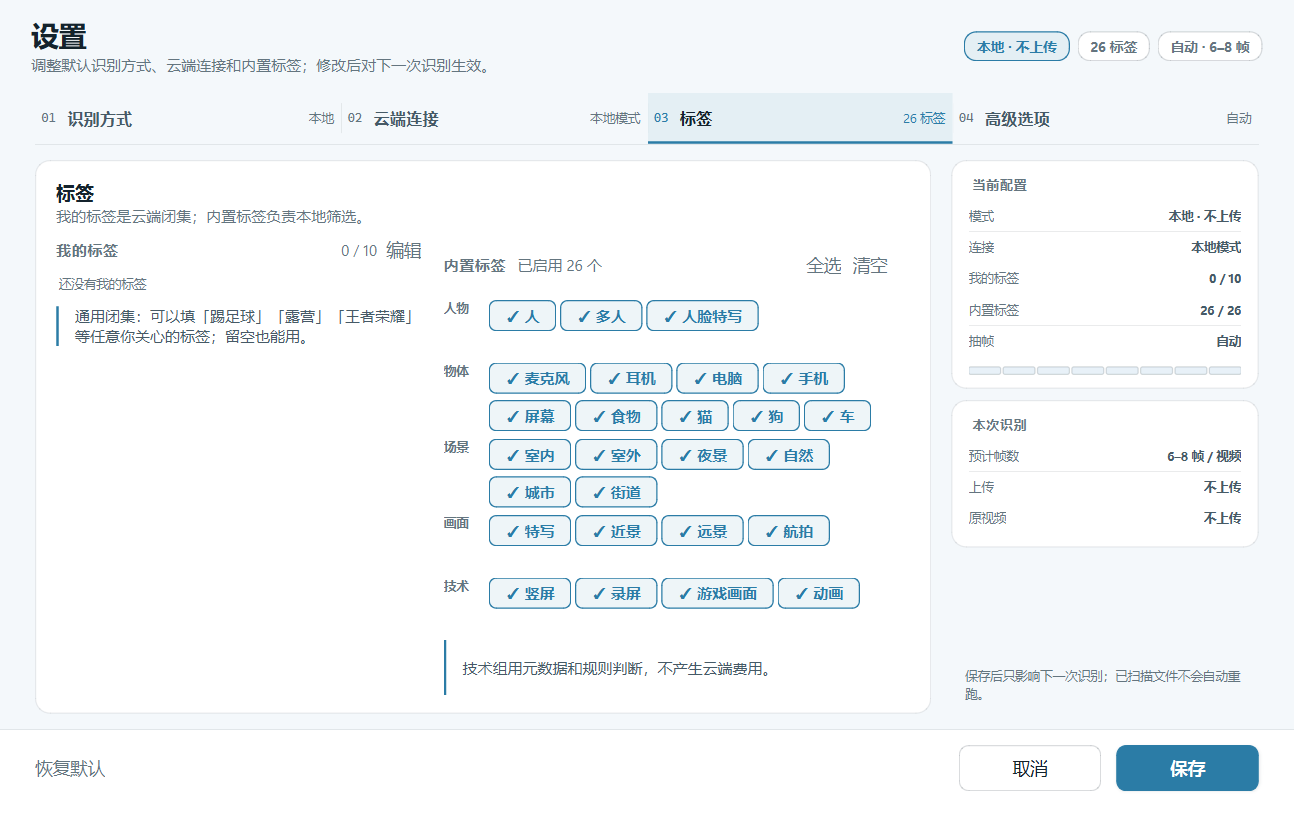
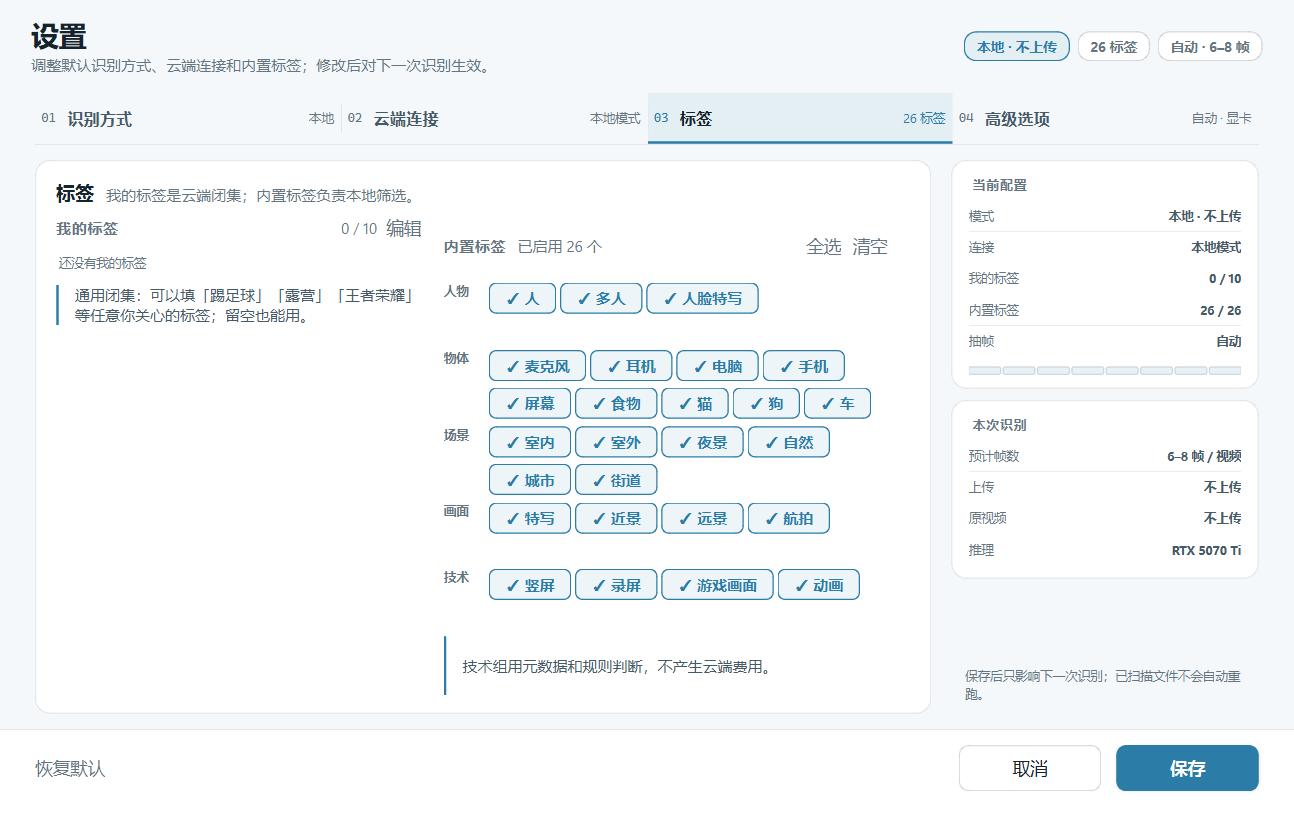
Refresh landing page and guides for GPU tagging and batch processing

diff --git a/docs/index.html b/docs/index.html
@@ -4,9 +4,9 @@
   <meta charset="utf-8">
   <meta name="viewport" content="width=device-width, initial-scale=1">
   <title>Media Filter — Local-first AI video organizer for Windows</title>
-  <meta name="description" content="Scan a folder, auto-tag video and audio with local YOLOv8 or a cloud model, filter by content, and turn selections into batch FFmpeg commands. Portable Windows app.">
+  <meta name="description" content="Scan a folder, auto-tag video and audio locally on GPU or CPU, filter by content, then remux, compress or run your own FFmpeg command. Portable Windows app.">
   <meta property="og:title" content="Media Filter — Local-first AI video organizer">
-  <meta property="og:description" content="Auto-tag your footage locally, filter by what is in the shot, and batch-transcode with FFmpeg.">
+  <meta property="og:description" content="GPU-accelerated local tagging, custom labels, and one batch dialog for remux, NVENC/AMF compression or your own FFmpeg command.">
   <meta property="og:image" content="https://yvgui2004.github.io/media-filter/screenshots/main-light.png">
   <meta property="og:url" content="https://yvgui2004.github.io/media-filter/">
   <meta property="og:type" content="website">
@@ -157,11 +157,11 @@
   <main id="top">
     <div class="wrap">
       <div class="hero">
-        <span class="eyebrow">Windows 10 / 11 · Local-first · Portable</span>
+        <span class="eyebrow">Windows 10 / 11 · Local-first · GPU-accelerated</span>
         <h1 class="en">Find the clip you need <em>by what's in it.</em></h1>
         <h1 class="zh">按画面内容，<em>找到你要的那条素材。</em></h1>
-        <p class="lede en">Scan a folder, tag every video and audio file with local AI or a cloud model, filter by content, then turn the selection into batch FFmpeg commands — no upload, no spreadsheet.</p>
-        <p class="lede zh">扫描文件夹，用本地 AI 或云端模型给每个视频、音频打内容标签，按标签筛选，再把勾选的文件直接变成批量 FFmpeg 命令。不建表格，不上传素材。</p>
+        <p class="lede en">Scan a folder, tag every video and audio file with local AI on your GPU or CPU, filter by content, then remux, compress with NVENC / AMF / x265, or run your own FFmpeg command — with a preview before anything runs.</p>
+        <p class="lede zh">扫描文件夹，用本地 AI 在显卡或 CPU 上给每个视频、音频打内容标签，按标签筛选，再直接转封装、用 NVENC / AMF / x265 压缩，或跑你自己的 FFmpeg 命令；执行前都能先看命令预览。</p>
         <div class="actions">
           <a class="btn" href="https://github.com/yvgui2004/media-filter/releases/latest">
             <svg width="18" height="18" viewBox="0 0 24 24" fill="none" stroke="currentColor" stroke-width="2" stroke-linecap="round" stroke-linejoin="round" aria-hidden="true"><path d="M12 3v12"/><path d="M7 10l5 5 5-5"/><path d="M5 21h14"/></svg>
@@ -177,7 +177,7 @@
 
         <figure class="shot">
           <img src="screenshots/demo.gif" width="1000" height="625"
-               alt="Scanning a folder, tagging clips with local AI, filtering by tag, and generating batch FFmpeg commands">
+               alt="Scanning a folder, tagging clips with local AI, filtering by tag, and processing the selection with FFmpeg">
         </figure>
       </div>
     </div>
@@ -191,19 +191,19 @@
         <div class="cards">
           <article class="card">
             <svg viewBox="0 0 24 24" fill="none" stroke="currentColor" stroke-width="1.8" stroke-linecap="round" stroke-linejoin="round" aria-hidden="true"><path d="M12 3l1.6 4.4L18 9l-4.4 1.6L12 15l-1.6-4.4L6 9l4.4-1.6z"/><path d="M5 15l.8 2.2L8 18l-2.2.8L5 21l-.8-2.2L2 18l2.2-.8z"/><path d="M19 14l.7 1.9L21.6 16.6l-1.9.7L19 19.2l-.7-1.9-1.9-.7 1.9-.7z"/></svg>
-            <h3>Local-first AI tagging</h3>
-            <p class="en">YOLOv8n runs on your GPU-free CPU. People, vehicles, pets, food, screens — 8 built-in tags without a single upload. Hybrid and cloud modes cover all 26.</p>
-            <p class="zh">YOLOv8n 在本机 CPU 推理，人物、车辆、宠物、食物、屏幕等 8 类标签无需上传；混合 / 云端模式覆盖 26 类。</p>
+            <h3><span class="en">Local-first AI tagging</span><span class="zh">本机 AI 识别</span></h3>
+            <p class="en">YOLOv8n runs locally on the GPU through DirectML (NVIDIA, AMD and Intel) with a CPU fallback: people, vehicles, pets, food, screens — 8 built-in tags without a single upload. Hybrid and cloud modes cover all 26, and you can add up to 10 custom labels such as 踢足球 or 王者荣耀.</p>
+            <p class="zh">YOLOv8n 通过 DirectML 在本机显卡上推理（NVIDIA、AMD、Intel，自动回退 CPU）：人物、车辆、宠物、食物、屏幕等 8 类标签无需上传；混合 / 云端覆盖 26 类，还能加最多 10 个自定义标签，如「踢足球」「王者荣耀」。</p>
           </article>
           <article class="card">
             <svg viewBox="0 0 24 24" fill="none" stroke="currentColor" stroke-width="1.8" stroke-linecap="round" stroke-linejoin="round" aria-hidden="true"><path d="M4 7h16"/><path d="M4 12h16"/><path d="M4 17h10"/><path d="M16 17l5-5-5-5" opacity="0"/><path d="M17 14l3 3-3 3"/></svg>
-            <h3>Batch FFmpeg, no syntax</h3>
-            <p class="en">Pick x265 or NVENC, preview every command with real paths, then copy, save as .bat, or run in place. Quoted paths with spaces just work.</p>
-            <p class="zh">选 x265 / NVENC 预设，带真实路径预览命令，可复制、存 .bat 或直接执行；带空格的路径也能正确处理。</p>
+            <h3><span class="en">Batch processing, no syntax</span><span class="zh">批量处理，不用写语法</span></h3>
+            <p class="en">One dialog: lossless remux, compression with x265 / x264 / NVIDIA NVENC / AMD AMF, or your own FFmpeg template. Preview every command, keep outputs collision-safe, and watch live progress with a result summary.</p>
+            <p class="zh">一个对话框：无损转封装、x265 / x264 / NVIDIA NVENC / AMD AMF 压缩，或自定义 FFmpeg 模板。每个文件都能预览命令，输出自动防冲突，执行时有实时进度和结果汇总。</p>
           </article>
           <article class="card">
             <svg viewBox="0 0 24 24" fill="none" stroke="currentColor" stroke-width="1.8" stroke-linecap="round" stroke-linejoin="round" aria-hidden="true"><path d="M12 3l7 3v5c0 4.4-3 8.4-7 10-4-1.6-7-5.6-7-10V6z"/><path d="M9.5 12l1.8 1.8L15 10"/></svg>
-            <h3>Private by default</h3>
+            <h3><span class="en">Private by default</span><span class="zh">默认保护隐私</span></h3>
             <p class="en">Scanning is offline. The API key is encrypted with Windows DPAPI, keys are masked in logs, and nothing uploads before a confirmation card.</p>
             <p class="zh">扫描全程离线；API Key 用 Windows DPAPI 加密，日志自动打码；上传前一定先弹确认卡。</p>
           </article>
@@ -220,8 +220,8 @@
       <div class="wrap">
         <h2 class="en">Screenshots</h2>
         <h2 class="zh">界面截图</h2>
-        <p class="sub en">Real captures from the app — local AI tagging on 14 demo files, zero failures.</p>
-        <p class="sub zh">真实界面截图：本地 AI 识别 14 个演示文件，0 失败。</p>
+        <p class="sub en">Real captures from the app — main window: local AI tagging on 14 demo files, zero failures.</p>
+        <p class="sub zh">真实界面截图：主界面为本地 AI 识别 14 个演示文件，0 失败。</p>
         <div class="gallery">
           <figure>
             <img src="screenshots/main-light.png" alt="Main window, light theme" loading="lazy">
@@ -234,9 +234,9 @@
             <figcaption class="zh">主界面 · 深色</figcaption>
           </figure>
           <figure>
-            <img src="screenshots/batch.png" alt="Batch FFmpeg command dialog" loading="lazy">
-            <figcaption class="en">Batch commands</figcaption>
-            <figcaption class="zh">批量命令</figcaption>
+            <img src="screenshots/batch.png" alt="Batch processing dialog" loading="lazy">
+            <figcaption class="en">Batch processing</figcaption>
+            <figcaption class="zh">批量处理</figcaption>
           </figure>
           <figure>
             <img src="screenshots/settings.png" alt="Settings, tag palette" loading="lazy">
@@ -262,7 +262,7 @@
         </div>
         <div class="spec">
           <div><b>Windows 10 / 11 · 64-bit</b><span class="en">Only supported platform today</span><span class="zh">目前仅支持 Windows</span></div>
-          <div><b class="en">~160 MB ZIP</b><b class="zh">约 160 MB ZIP</b><span class="en">Python + FFmpeg + model bundled</span><span class="zh">内置 Python、FFmpeg 与模型</span></div>
+          <div><b class="en">~168 MB ZIP</b><b class="zh">约 168 MB ZIP</b><span class="en">Python + FFmpeg + model bundled</span><span class="zh">内置 Python、FFmpeg 与模型</span></div>
           <div><b class="en">MIT source</b><b class="zh">源码 MIT</b><span class="en">FFmpeg GPL-3.0, YOLOv8 AGPL-3.0 — see notices</span><span class="zh">FFmpeg GPL-3.0、YOLOv8 AGPL-3.0，详见说明</span></div>
         </div>
       </div>

diff --git a/scripts/capture_gif.py b/scripts/capture_gif.py
@@ -33,7 +33,7 @@ from mediafilter.i18n import Translator
 from mediafilter.ui.dialog_base import set_dialog_tokens
 from mediafilter.ui.main_window import MainWindow
 from mediafilter.ui.theme import apply_theme
-from mediafilter.ui.widgets.batch_dialog import BatchCommandDialog
+from mediafilter.ui.widgets.batch_process import BatchProcessDialog
 
 FRAMES_DIR = Path(tempfile.mkdtemp(prefix="mediafilter-gif-frames-"))
 DURATIONS_MS = [1600, 1900, 1900, 2600]
@@ -134,10 +134,10 @@ def main() -> None:
     process_events(app, 0.3)
 
     records = window._model.checked_records() or window._model.records()[:3]
-    batch = BatchCommandDialog(
-        records, tr_call, window._load_presets(), window, window._palette
+    batch = BatchProcessDialog(
+        records, tr_call, window._load_presets(), window,
+        tokens=window._palette, config=window._config,
     )
-    batch.resize(1100, 760)
     batch.show()
     process_events(app, 0.8)
     frames.append(grab(batch, 3))

diff --git a/scripts/capture_screenshots.py b/scripts/capture_screenshots.py
@@ -32,7 +32,7 @@ from mediafilter.i18n import Translator
 from mediafilter.ui.dialog_base import set_dialog_tokens
 from mediafilter.ui.main_window import MainWindow
 from mediafilter.ui.theme import apply_theme
-from mediafilter.ui.widgets.batch_dialog import BatchCommandDialog
+from mediafilter.ui.widgets.batch_process import BatchProcessDialog
 from mediafilter.ui.widgets.settings_dialog import SettingsDialog
 
 
@@ -129,8 +129,10 @@ def main() -> None:
     process_events(app)
 
     records = window._model.checked_records() or window._model.records()[:3]
-    batch = BatchCommandDialog(records, tr_call, window._load_presets(), window, window._palette)
-    batch.resize(820, 720)
+    batch = BatchProcessDialog(
+        records, tr_call, window._load_presets(), window,
+        tokens=window._palette, config=window._config,
+    )
     batch.show()
     process_events(app)
     save(batch, out / "batch.png")

diff --git a/packaging/build.py b/packaging/build.py
@@ -97,6 +97,13 @@ Double-click MediaFilter.exe. No Python, no FFmpeg installation needed.
 请保持 ffmpeg 文件夹与 MediaFilter.exe 的相对位置不变，不要单独移动 exe。
 Keep the ffmpeg folder next to MediaFilter.exe; do not move the exe alone.
 
+主要功能 / Features
+-------------------
+  - 本机 AI 识别：显卡 DirectML 或 CPU，可选自定义标签
+  - 批量处理：快速转换、压缩转码（NVENC / AMF / x265 / x264）、自定义 FFmpeg
+  - Local AI tagging on GPU or CPU, with custom labels
+  - Batch processing: remux, NVENC / AMF / x265 / x264 compression, custom FFmpeg
+
 环境要求 / Requirements
 -----------------------
 Windows 10 / 11，64 位。首次启动约 1-3 秒（单文件程序要先解压自身；

diff --git a/使用文档.md b/使用文档.md
@@ -31,9 +31,8 @@
 一个 Windows 桌面工具，用来处理本地视频和音频：
 
 - **扫描统计**：递归扫描文件夹，读每个文件的时长、码率、大小、格式
-- **批量转码**：按预设生成 FFmpeg 命令（x265 CRF、NVENC HEVC / H.264 / AV1），可复制、存 `.bat` 或直接执行
-- **格式转换**：流拷贝（不重编码）或重编码，换容器格式
-- **AI 识别**：抽取视频画面帧，本地跑 YOLOv8n，给视频打内容标签（人物、屏幕、电脑、车辆、宠物……），支持按标签筛选
+- **批量处理**：快速转封装、压缩转码（x265 / x264、NVIDIA NVENC、AMD AMF，自动检测并支持 CPU 回退）、自定义 FFmpeg 命令；带命令预览、实时进度和结果汇总
+- **AI 识别**：抽取视频画面帧，本地跑 YOLOv8n（显卡 DirectML 或 CPU），给视频打内容标签（人物、屏幕、电脑、车辆、宠物……），支持按标签筛选和自定义标签
 - **导出报告**：把当前结果导出成 TXT，包含标签列
 
 本地模式全程离线，不上传任何文件；模型和推理都在本机。首次启动会引导选择识别方式（本地 / 混合 / 全云端）和标签。混合与全云端需要先在设置里填好接口地址、API Key 并选择支持图像的模型；每次上传前都会弹确认卡。
@@ -151,9 +150,9 @@ python -m venv .venv --system-site-packages
 ### 5.4 底部
 
 - 左侧：文件总数、已勾选数、已勾选总时长 / 总大小
-- 右侧：导出 TXT、批量命令、格式转换
+- 右侧：导出 TXT、批量处理
 
-> 「导出 / 批量命令 / 格式转换」处理的对象：**有勾选就用勾选的，没有勾选就用当前选中的行**。
+> 「导出 / 批量处理」处理的对象：**有勾选就用勾选的，没有勾选就用当前选中的行**。
 
 ### 5.5 设置页（齿轮 / `Ctrl+,`）
 
@@ -166,7 +165,7 @@ python -m venv .venv --system-site-packages
 | 识别 | 本地 / 混合 / 全云端三张卡片；保存后立即作用于主窗口，并作为下次启动的默认值 |
 | 云端 | API KEY、BASE URL、模型选择器与测试连接（见下表） |
 | 标签 | 左侧「我的标签」预览与编辑入口；右侧 26 个内置标签（人物 / 物体 / 场景 / 画面 / 技术），默认全部启用，可全选 / 清空 |
-| 高级 | 抽帧强度（自动 / 快速 / 精细）、仅上传疑似目标画面、颜色标签在本机取色 |
+| 高级 | 推理设备（自动 / CPU / GPU）、抽帧强度（自动 / 快速 / 精细）、仅上传疑似目标画面、颜色标签在本机取色 |
 
 页签切换不会丢草稿；顶部三个标签显示当前模式、内置标签数和抽帧强度，右侧摘要同步模式、连接状态、我的标签 / 内置标签数量，以及本次识别的帧数和上传范围。对话框为 1035 × 656（B4 原型放大 1.15 倍），四页都完整显示，不需要滚动。
 
@@ -280,6 +279,8 @@ move yolov8n.onnx models\yolov8n_fp32.onnx
 
 **识别原理**：按「抽帧强度」在每个视频里均匀取帧（快速 4 帧；自动 6 / 8 帧；精细 12 / 16 帧）→ 缩放到 640×640 → YOLOv8n 检测 → 同一个标签在至少一半的帧中出现才保留 → 翻译成中文写进表格。
 
+**推理设备**：设置 → 高级 → 推理设备，可选自动 / CPU / GPU。自动优先用 DirectML 走显卡（NVIDIA、AMD、Intel 都支持），没有可用显卡或初始化失败时回退 CPU。GPU 推理通常明显快于下面的 CPU 参考。
+
 **速度参考**（笔记本 CPU，640×640）：
 
 - 单个视频冷启动约 0.3–1 秒（受分辨率、时长、磁盘影响）
@@ -308,11 +309,16 @@ move yolov8n.onnx models\yolov8n_fp32.onnx
 - 选「全部标签」→ 恢复
 - 搜索框也能搜标签，例如输入「电脑」
 
-### 6.5 导出 / 批量命令 / 格式转换
+### 6.5 导出 / 批量处理
 
 - **导出 TXT**：选保存位置，报告包含文件名、大小、时长、码率、格式、标签
-- **批量命令**：按预设生成 FFmpeg 命令，可复制、存 `.bat`、直接运行
-- **格式转换**：流拷贝（秒级、无损）或指定编码重编码
+- **批量处理**：勾选文件 → 点底部「批量处理」。一个对话框里有三种任务：
+  - **快速转换**：视频流直接复制，只换容器（mp4 / mkv / mov / webm / avi / flv / ts / m4v）；音频和字幕能复制就复制，不兼容时自动转换。无损、最快。
+  - **压缩转码**：x265 / x264（CPU）、NVIDIA NVENC、AMD AMF，按「高品质 / 均衡 / 省空间」选档位；自动模式优先硬件 HEVC，硬件失败可回退 CPU。
+  - **自定义命令**：用 `{input}` / `{output}` 占位符跑你自己的 FFmpeg 模板，App 不会额外追加参数。
+- **输出与安全**：可以放同目录或指定文件夹；文件名后缀可改；重名可选加序号 / 跳过 / 覆盖（覆盖前确认）。执行时先写 `.part` 临时文件，成功后原子替换，**永远不会写入源文件**。
+- **高级选项**：音频（智能复制 / 复制 / AAC / Opus / 移除）、字幕（智能保留 / 移除）、目标容器、编码器预设、失败策略（继续 / 停止）、硬件回退、章节与元数据。
+- **预览与结果**：每个文件的实际命令都能预览、复制或存成 `.bat`；执行时显示总进度和当前文件，可取消；结束后汇总成功 / 失败 / 跳过、耗时、体积变化，并可复制失败清单或打开输出目录。
 
 ---
 
@@ -350,6 +356,7 @@ move yolov8n.onnx models\yolov8n_fp32.onnx
 | `frame_policy` | `"auto"` | 抽帧强度：`fast` / `auto` / `fine`，设置页保存的就是这个字段 |
 | `ai_sample_frames` | `3` | 旧版固定帧数，仅保留用于兼容旧配置；当前识别始终由 `frame_policy` 决定 |
 | `ai_threads` | `2` | 同时推理的线程数；机器弱就设 1 |
+| `ai_device` | `"auto"` | 推理设备：`auto` / `cpu` / `gpu`；设置页「高级」保存的就是这个字段 |
 | `ai_conf` | `0.25` | 置信度阈值；误报多可调高到 0.4，漏检多可调低到 0.15 |
 
 云端相关字段（一般从设置页改，不建议手改）：
@@ -432,7 +439,7 @@ cd /d <项目目录>
 | 扫描报「ffprobe not found」 | FFmpeg 没装或不在 PATH；装完重开程序 |
 | 点 AI 识别提示「未找到 ONNX 模型」 | `models/` 下没有 `.onnx`；按 6.3 导出或放入 |
 | 提示「AI 识别失败：ModuleNotFoundError: numpy/onnxruntime」 | 没装 AI 依赖；`pip install -e ".[ai]"` |
-| 识别很慢 | 降低 `ai_threads` 反而可能更快（避免抢 CPU）；或在设置里把抽帧强度改成「快速」 |
+| 识别很慢 | 设置 → 高级里把推理设备切到「自动」或「GPU」；降低 `ai_threads` 反而可能更快（避免抢 CPU）；或把抽帧强度改成「快速」 |
 | 标签全是「—」 | 视频里没有模型认识的物体，或画面太暗/太小；属于正常 |
 | 误报多（例如红绿灯） | 把 `ai_conf` 调到 0.35–0.45；或忽略这类标签 |
 | 改了视频但标签没变 | 缓存按修改时间判断；确认文件确实变了，或删 `tags.json` |
@@ -440,6 +447,7 @@ cd /d <项目目录>
 | 设置页「测试连接」失败 | 检查 BASE URL 和密钥；网关 / 代理未开时也会失败，不会影响本地扫描 |
 | 模型状态显示「仅文本」，保存按钮是灰的 | 该模型不能识图，换一个支持图像的模型 |
 | 模型状态「图像能力未确认」 | 元数据没写能力，点「实测」用测试图确认；也可以先保存 |
+| 批量处理里没有 NVIDIA / AMD 编码器 | FFmpeg 构建不带 NVENC / AMF，或显卡驱动太旧；换完整的 FFmpeg 并更新驱动，或用「自动」/ CPU |
 | 界面中文变成方框 | 系统缺少中文字体；一般 Windows 自带微软雅黑，不会出现 |
 
 ---
@@ -481,8 +489,8 @@ mediafilter/
 │       ├── worker.py            扫描线程
 │       ├── tag_worker.py        AI 识别线程
 │       ├── cloud_tag_worker.py  云端 / 混合识别线程
-│       └── widgets/             设置 / 批量命令 / 格式转换对话框
-└── tests/                       pytest 用例（128 个）
+│       └── widgets/             设置 / 批量处理对话框
+└── tests/                       pytest 用例（196 个）
 ```
 
 ---
@@ -495,9 +503,10 @@ cd /d <项目目录>
 .venv\Scripts\python.exe -m pyright
 ```
 
-当前 128 个用例全部通过，pyright 0 错误；GitHub Actions 在每次 push / PR 时也会执行这两步。覆盖：
+当前 196 个用例全部通过，pyright 0 错误；GitHub Actions 在每次 push / PR 时也会执行这两步。覆盖：
 
 - 格式化、ffprobe 解析、扫描、命令生成、扫描线程池
+- 批量处理的编码器参数、输出规划、重名策略和命令预览
 - 抽帧时间点、抽帧强度、标签投票、YOLO 输出解码
 - 云端闭集解析、多帧投票、混合模式合并与仅目标上传
 - 缓存读写与损坏恢复

diff --git a/packaging/README.md b/packaging/README.md
@@ -6,8 +6,8 @@ Pushing a version tag runs `.github/workflows/release.yml`:
 
 ```powershell
 # bump version in pyproject.toml and add the CHANGELOG section first
-git tag v0.1.2
-git push origin v0.1.2
+git tag v0.2.1
+git push origin v0.2.1
 ```
 
 The workflow checks that the tag matches `pyproject.toml`, runs pytest and
@@ -55,17 +55,18 @@ validated locally:
 winget validate --manifest packaging\winget\yvgui2004.MediaFilter\0.1.1
 ```
 
-To publish a version:
+Current status: the first submission (`0.1.1`, new package) is open as
+[microsoft/winget-pkgs#484604](https://github.com/microsoft/winget-pkgs/pull/484604)
+and has passed validation. Submit `0.2.0` only after that PR merges — winget
+rejects an update when the base package does not exist yet. Once merged, either
+configure `WINGET_TOKEN` before the next tag, or run the script manually:
 
-1. Sign in to GitHub as the package publisher.
-2. Fork `microsoft/winget-pkgs`.
-3. Copy `packaging/winget/yvgui2004.MediaFilter/<version>/` to
-   `manifests/y/yvgui2004/MediaFilter/<version>/` in the fork.
-4. Open a pull request. Accept the Microsoft CLA when the bot asks.
-5. After merge, `winget install yvgui2004.MediaFilter` works.
-
-The manifest is intentionally not submitted yet: the repository owner must open
-the PR and accept the CLA under their own account.
+```powershell
+$env:WINGET_TOKEN = "<classic PAT with public_repo>"
+.venv\Scripts\python.exe scripts\winget_submit.py --version 0.2.0 `
+  --url https://github.com/yvgui2004/media-filter/releases/download/v0.2.0/MediaFilter-0.2.0-win64.zip `
+  --sha256 211331abec823fd7559e27033922557a5640444f23d75650a02900830d929566
+```
 
 ## Scoop
 
